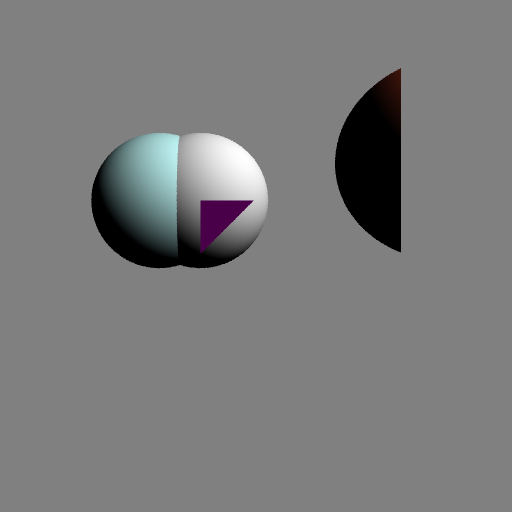
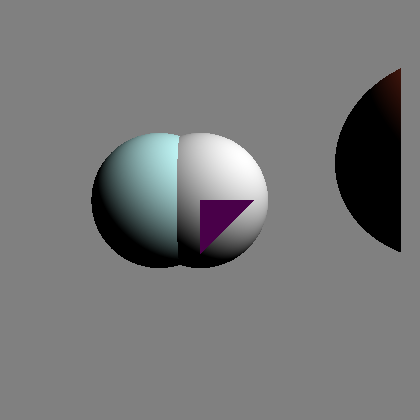
N-Rook Multijitter Working

Changed region(s): [[0.1548, 0.2476, 0.65, 0.65], [0.65, 0.1238, 0.9595, 0.619]]

diff --git a/RayTracer/src/World/World.cpp b/RayTracer/src/World/World.cpp
@@ -30,11 +30,11 @@ void World::render(int resX, int resY, double perX, double perY, RenderMode mode
 {
 	std::default_random_engine gen;
 	gen.seed((unsigned long)time(NULL));
-	double range = 1.0 / (2.0*samples);
-	std::uniform_real_distribution<double> jitter(-range, range);
+	std::uniform_int_distribution<unsigned int> rooks;
+
 	vector<int> row;
 	vector<int> column;
-	for(int i = 0; i < samples; ++i)
+	for(int i = 1; i <= samples; ++i)
 	{
 		row.push_back(i);
 		column.push_back(i);
@@ -46,7 +46,7 @@ void World::render(int resX, int resY, double perX, double perY, RenderMode mode
 
 	sf::RenderWindow& window = *spWindow;
 
-	Ray r(Vector(0, 0, 0), Vector(1, 0, 0));
+	Ray ray(Vector(0, 0, 0), Vector(1, 0, 0));
 
 	image.create(420, 420, sf::Color(128, 128, 128, 255));
 
@@ -58,61 +58,47 @@ void World::render(int resX, int resY, double perX, double perY, RenderMode mode
 			{
 				if(sample == SampleMode::PerPixel)
 				{
-					r.pos.y = 0 + (x - (float)resX * 0.5)*(perX / resX);//center screen on coordinates
-					r.pos.z = 0 + (y - (float)resY * 0.5)*(perY / resY);
-					getFirstHit(r);
-					setPixel(-x + resX, -y + resY, r.lastColor);
+					ray.pos.y = 0 + (x - (float)resX * 0.5)*(perX / resX);//center screen on coordinates
+					ray.pos.z = 0 + (y - (float)resY * 0.5)*(perY / resY);
+					getFirstHit(ray);
+					setPixel(-x + resX, -y + resY, ray.lastColor);
 				}
 				else// MultiJitter
 				{
-					sf::Color d = sf::Color(0, 0, 0, 0);
-					sf::Color c1(d), c2(d), c3(d), c4(d);
+					sf::Color c1;
+					int r = 0, g = 0, b = 0, a = 0;
+					auto row2 = row;
+					auto column2 = column;
 
 					for(int sample = 0; sample < samples; ++sample)
 					{
-						//Randomly select 2 numbers from row and column, and remove
-
+						std::uniform_int_distribution<unsigned int>::param_type range(0, samples - (sample+1));
+						rooks.param(range);
+						int xIndex = rooks(gen);
+						int yIndex = rooks(gen);
 						//Convert them to a coordinate addition
 
+						double offsetX = (static_cast<double>(column2[xIndex]) - ((samples / 2.0) + 0.5))/samples;
+						double offsetY = (static_cast<double>(row2[yIndex]) - ((samples / 2.0) + 0.5))/samples;
+
+						column2.erase(column2.begin() + xIndex);
+						row2.erase(row2.begin() + yIndex);
+
+
 						//cast the ray to get the color
+						ray.pos.y = 0 + (x + offsetX - (float)resX * 0.5)*(perX / resX);
+						ray.pos.z = 0 + (y + offsetY - (float)resY * 0.5)*(perY / resY);
+						getFirstHit(ray);
+						c1 = ray.lastColor;
 
 						//add color to total rgba
+						r += c1.r;
+						g += c1.g;
+						b += c1.b;
 					}
 
-					//divide color by total samples
-
-					r.pos.y = 0 + ((x - 0.25 + jitter(gen)) - (float)resX * 0.5)*(perX / resX);
-					r.pos.z = 0 + ((y - 0.25 + jitter(gen)) - (float)resY * 0.5)*(perY / resY);
-					getFirstHit(r);
-					c1 = r.lastColor;
-
-					r.pos.y = 0 + ((x + 0.25 + jitter(gen)) - (float)resX * 0.5)*(perX / resX);
-					r.pos.z = 0 + ((y - 0.25 + jitter(gen)) - (float)resY * 0.5)*(perY / resY);
-					getFirstHit(r);
-					c2 = r.lastColor;
-
-					r.pos.y = 0 + ((x - 0.25 + jitter(gen)) - (float)resX * 0.5)*(perX / resX);
-					r.pos.z = 0 + ((y + 0.25 + jitter(gen)) - (float)resY * 0.5)*(perY / resY);
-					getFirstHit(r);
-					c3 = r.lastColor;
-
-					r.pos.y = 0 + ((x + 0.25 + jitter(gen)) - (float)resX * 0.5)*(perX / resX);
-					r.pos.z = 0 + ((y + 0.25 + jitter(gen)) - (float)resY * 0.5)*(perY / resY);
-					getFirstHit(r);
-					c4 = r.lastColor;
-
-					int r = c1.r + c2.r + c3.r + c4.r;
-					int g = c1.g + c2.g + c3.g + c4.g;
-					int b = c1.b + c2.b + c3.b + c4.b;
-					int a = c1.a + c2.a + c3.a + c4.a;
-
-					sf::Color p(r / 4, g / 4, b / 4, a / 4);
-
-					sf::Color back = image.getPixel(x, -y + resY);
-					int alpha = 255 - p.a;
-					sf::Color mod(alpha, alpha, alpha, alpha);
-					sf::Color finalp = p + (back*mod);
-					setPixel(-x + resX, -y + resY, finalp);
+					sf::Color finalColor(r / samples, g / samples, b / samples);
+					setPixel(-x + resX, -y + resY, finalColor);
 				}
 			}
 		}
@@ -123,59 +109,52 @@ void World::render(int resX, int resY, double perX, double perY, RenderMode mode
 		{
 			for(int y = 0; y < (signed)resY; ++y)
 			{
-				r.lastColor = sf::Color(128, 128, 128, 255);
+				ray.lastColor = sf::Color(128, 128, 128, 255);
 				if(sample == SampleMode::PerPixel)
 				{
-					r.pos.y = -(0 + (x - (float)resX * 0.5)*(perX / resX));//center screen on coordinates
-					r.pos.z = 0 + (y - (float)resY * 0.5)*(perY / resY);
-					r.dir = Vector(-camera.eyedist, 0, 0).to(r.pos).normal();
-					getFirstHit(r);
-					setPixel(x, -y + resY, r.lastColor);
+					ray.pos.y = -(0 + (x - (float)resX * 0.5)*(perX / resX));//center screen on coordinates
+					ray.pos.z = 0 + (y - (float)resY * 0.5)*(perY / resY);
+					ray.dir = Vector(-camera.eyedist, 0, 0).to(ray.pos).normal();
+					getFirstHit(ray);
+					setPixel(x, -y + resY, ray.lastColor);
 				}
-				else//else MultiJitter
+				else// MultiJitter
 				{
-					sf::Color d = sf::Color(0, 0, 0, 0);
-					sf::Color c1(d), c2(d), c3(d), c4(d);
+					sf::Color c1;
+					int r = 0, g = 0, b = 0, a = 0;
+					auto row2 = row;
+					auto column2 = column;
+
+					for(int sample = 0; sample < samples; ++sample)
+					{
+						std::uniform_int_distribution<unsigned int>::param_type range(0, samples - (sample + 1));
+						rooks.param(range);
+						int xIndex = rooks(gen);
+						int yIndex = rooks(gen);
+						//Convert them to a coordinate addition
+
+						double offsetX = (static_cast<double>(column2[xIndex]) - ((samples / 2.0) + 0.5)) / samples;
+						double offsetY = (static_cast<double>(row2[yIndex]) - ((samples / 2.0) + 0.5)) / samples;
+
+						column2.erase(column2.begin() + xIndex);
+						row2.erase(row2.begin() + yIndex);
 
 
+						//cast the ray to get the color
+						ray.pos.y = 0 + (x + offsetX - (float)resX * 0.5)*(perX / resX);
+						ray.pos.z = 0 + (y + offsetY - (float)resY * 0.5)*(perY / resY);
+						ray.dir = Vector(-camera.eyedist, 0, 0).to(ray.pos).normal();
+						getFirstHit(ray);
+						c1 = ray.lastColor;
 
-					r.pos.y = 0 + ((x - 0.25 + jitter(gen)) - (float)resX * 0.5)*(perX / resX);
-					r.pos.z = 0 + ((y - 0.25 + jitter(gen)) - (float)resY * 0.5)*(perY / resY);
-					r.dir = Vector(-camera.eyedist, 0, 0).to(r.pos).normal();
-					getFirstHit(r);
-					c1 = r.lastColor;
+						//add color to total rgba
+						r += c1.r;
+						g += c1.g;
+						b += c1.b;
+					}
 
-					r.pos.y = 0 + ((x + 0.25 + jitter(gen)) - (float)resX * 0.5)*(perX / resX);
-					r.pos.z = 0 + ((y - 0.25 + jitter(gen)) - (float)resY * 0.5)*(perY / resY);
-					r.dir = Vector(-camera.eyedist, 0, 0).to(r.pos).normal();
-					getFirstHit(r);
-					c2 = r.lastColor;
-
-					r.pos.y = 0 + ((x - 0.25 + jitter(gen)) - (float)resX * 0.5)*(perX / resX);
-					r.pos.z = 0 + ((y + 0.25 + jitter(gen)) - (float)resY * 0.5)*(perY / resY);
-					r.dir = Vector(-camera.eyedist, 0, 0).to(r.pos).normal();
-					getFirstHit(r);
-					c3 = r.lastColor;
-
-					r.pos.y = 0 + ((x + 0.25 + jitter(gen)) - (float)resX * 0.5)*(perX / resX);
-					r.pos.z = 0 + ((y + 0.25 + jitter(gen)) - (float)resY * 0.5)*(perY / resY);
-					r.dir = Vector(-camera.eyedist, 0, 0).to(r.pos).normal();
-					getFirstHit(r);
-					c4 = r.lastColor;
-
-
-					int r = c1.r + c2.r + c3.r + c4.r;
-					int g = c1.g + c2.g + c3.g + c4.g;
-					int b = c1.b + c2.b + c3.b + c4.b;
-					int a = c1.a + c2.a + c3.a + c4.a;
-
-					sf::Color p(r / 4, g / 4, b / 4, a / 4);
-
-					sf::Color back = image.getPixel(x, -y + resY);
-					int alpha = 255 - p.a;
-					sf::Color mod(alpha, alpha, alpha, alpha);
-					sf::Color finalp = p + (back*mod);
-					setPixel(-x + resX, -y + resY, finalp);
+					sf::Color finalColor(r / samples, g / samples, b / samples);
+					setPixel(-x + resX, -y + resY, finalColor);
 				}
 			}
 		}
